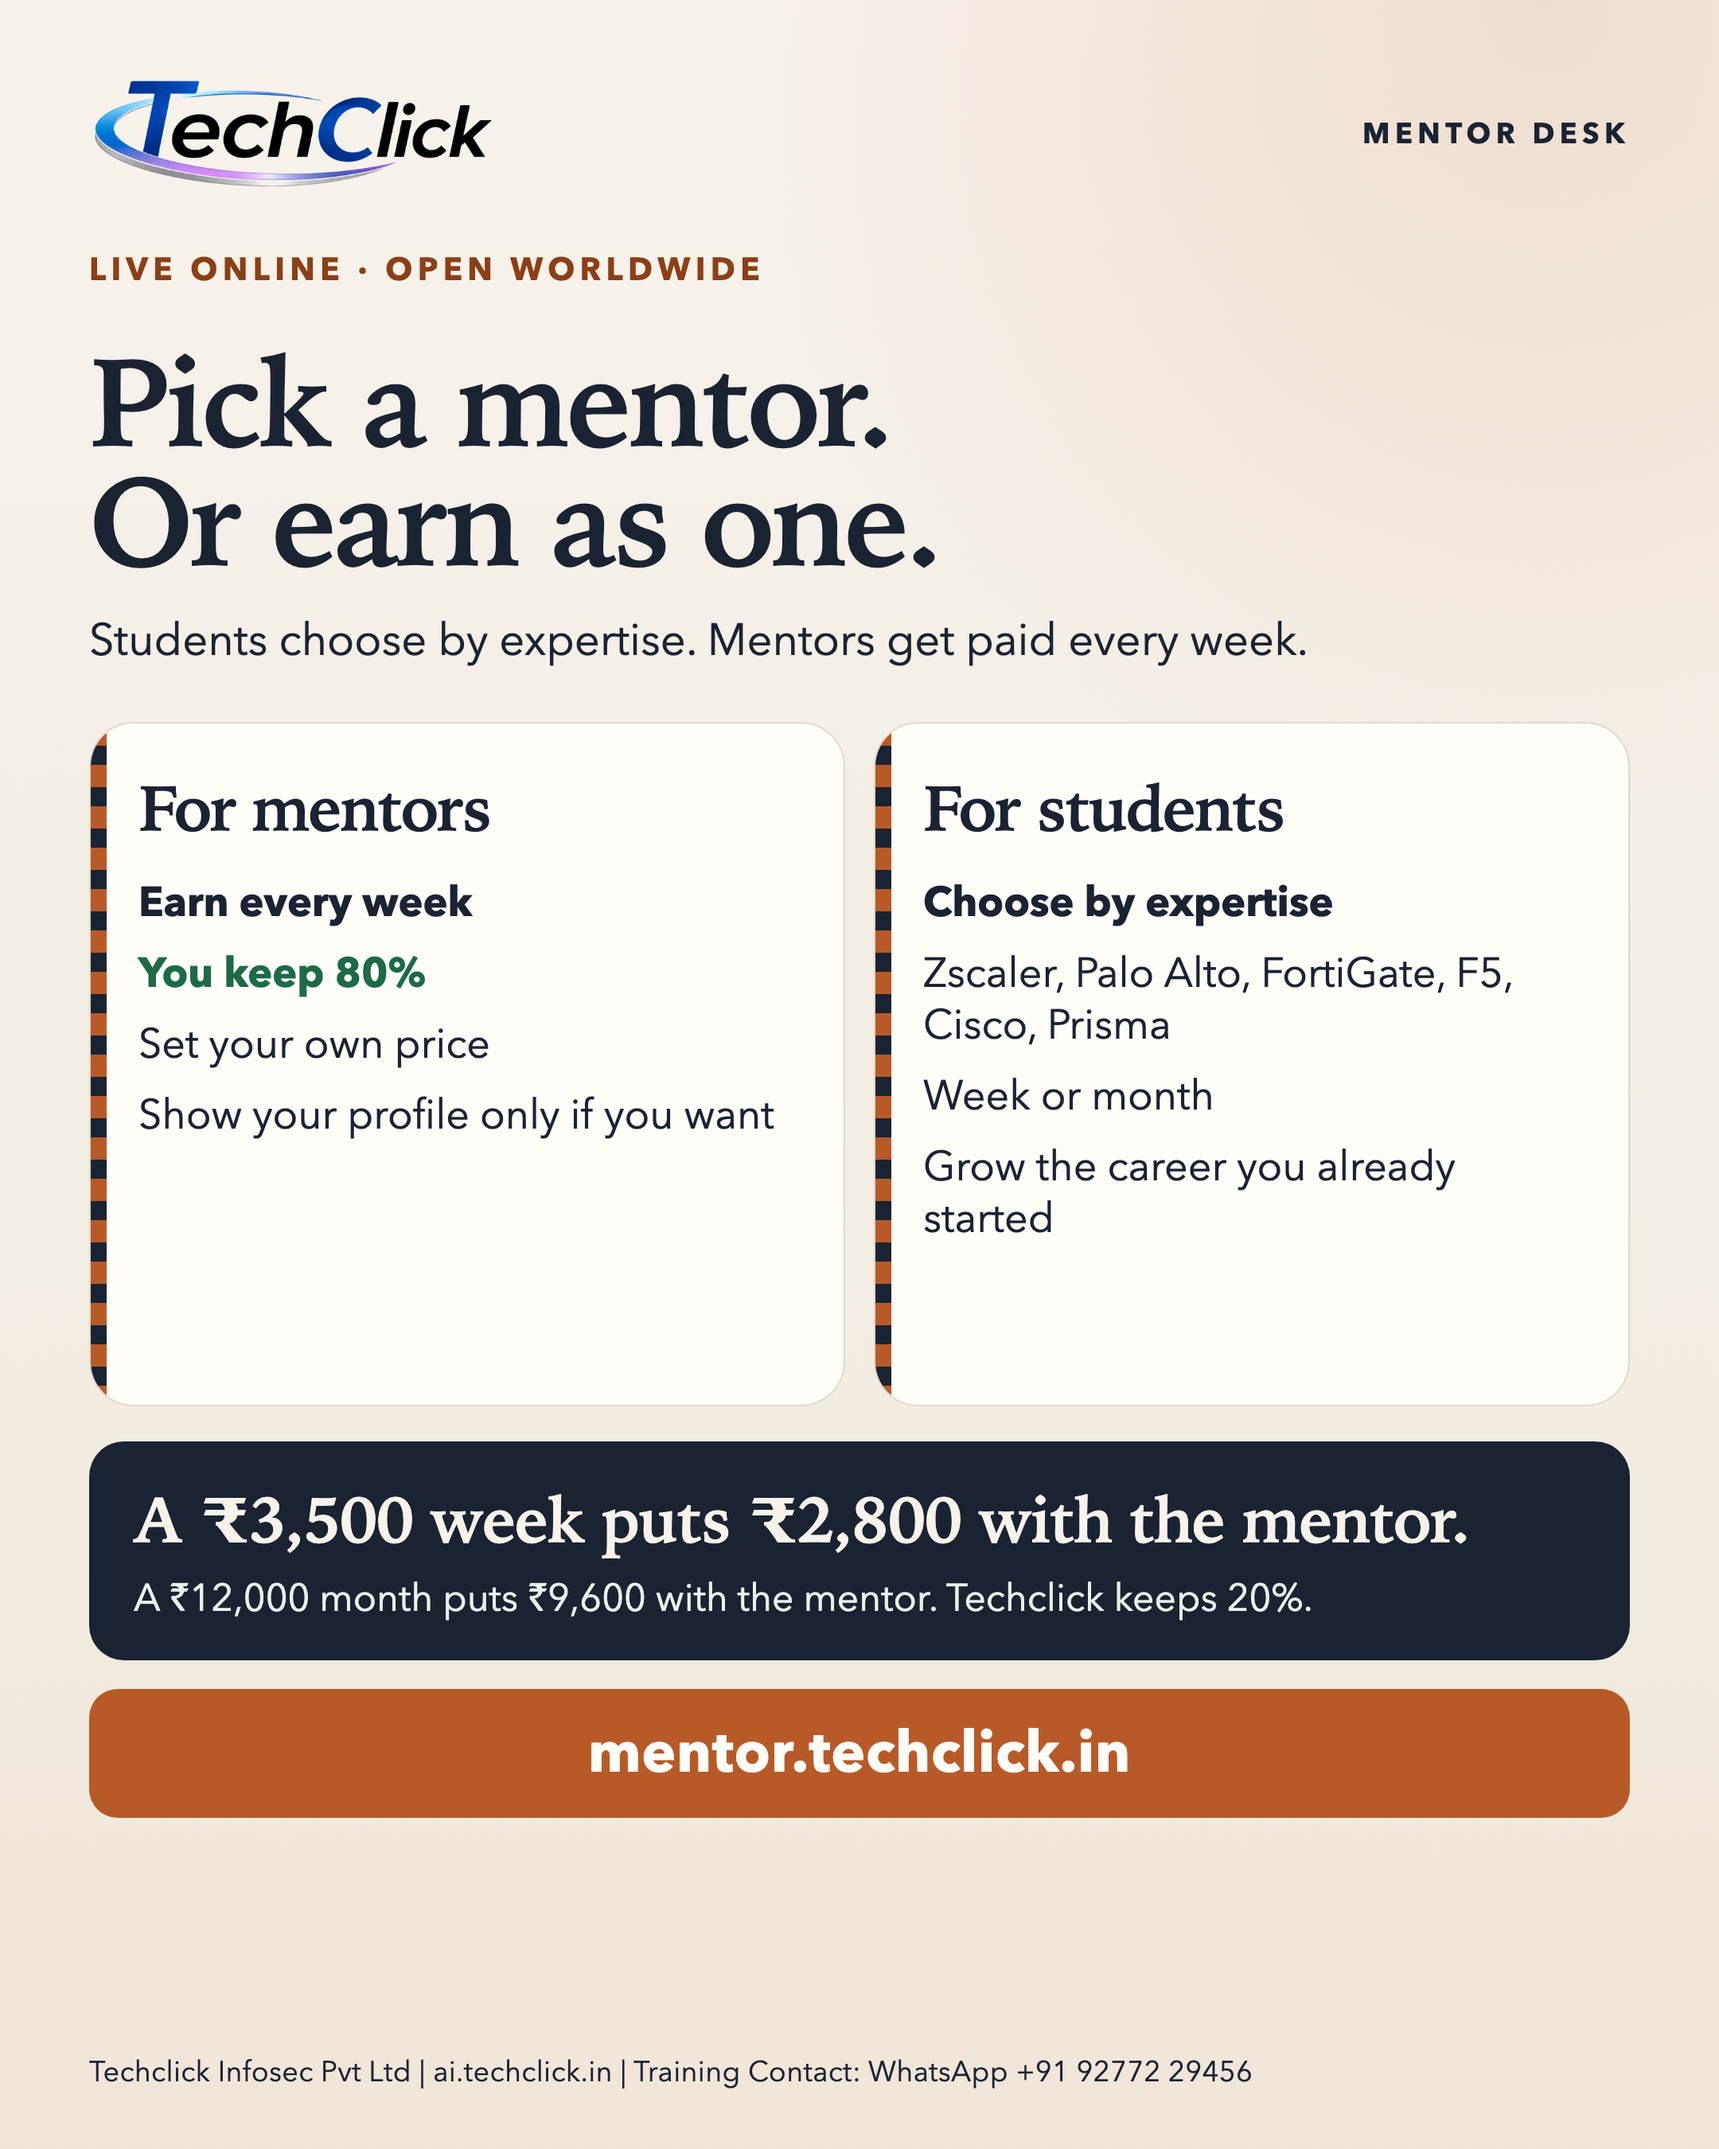
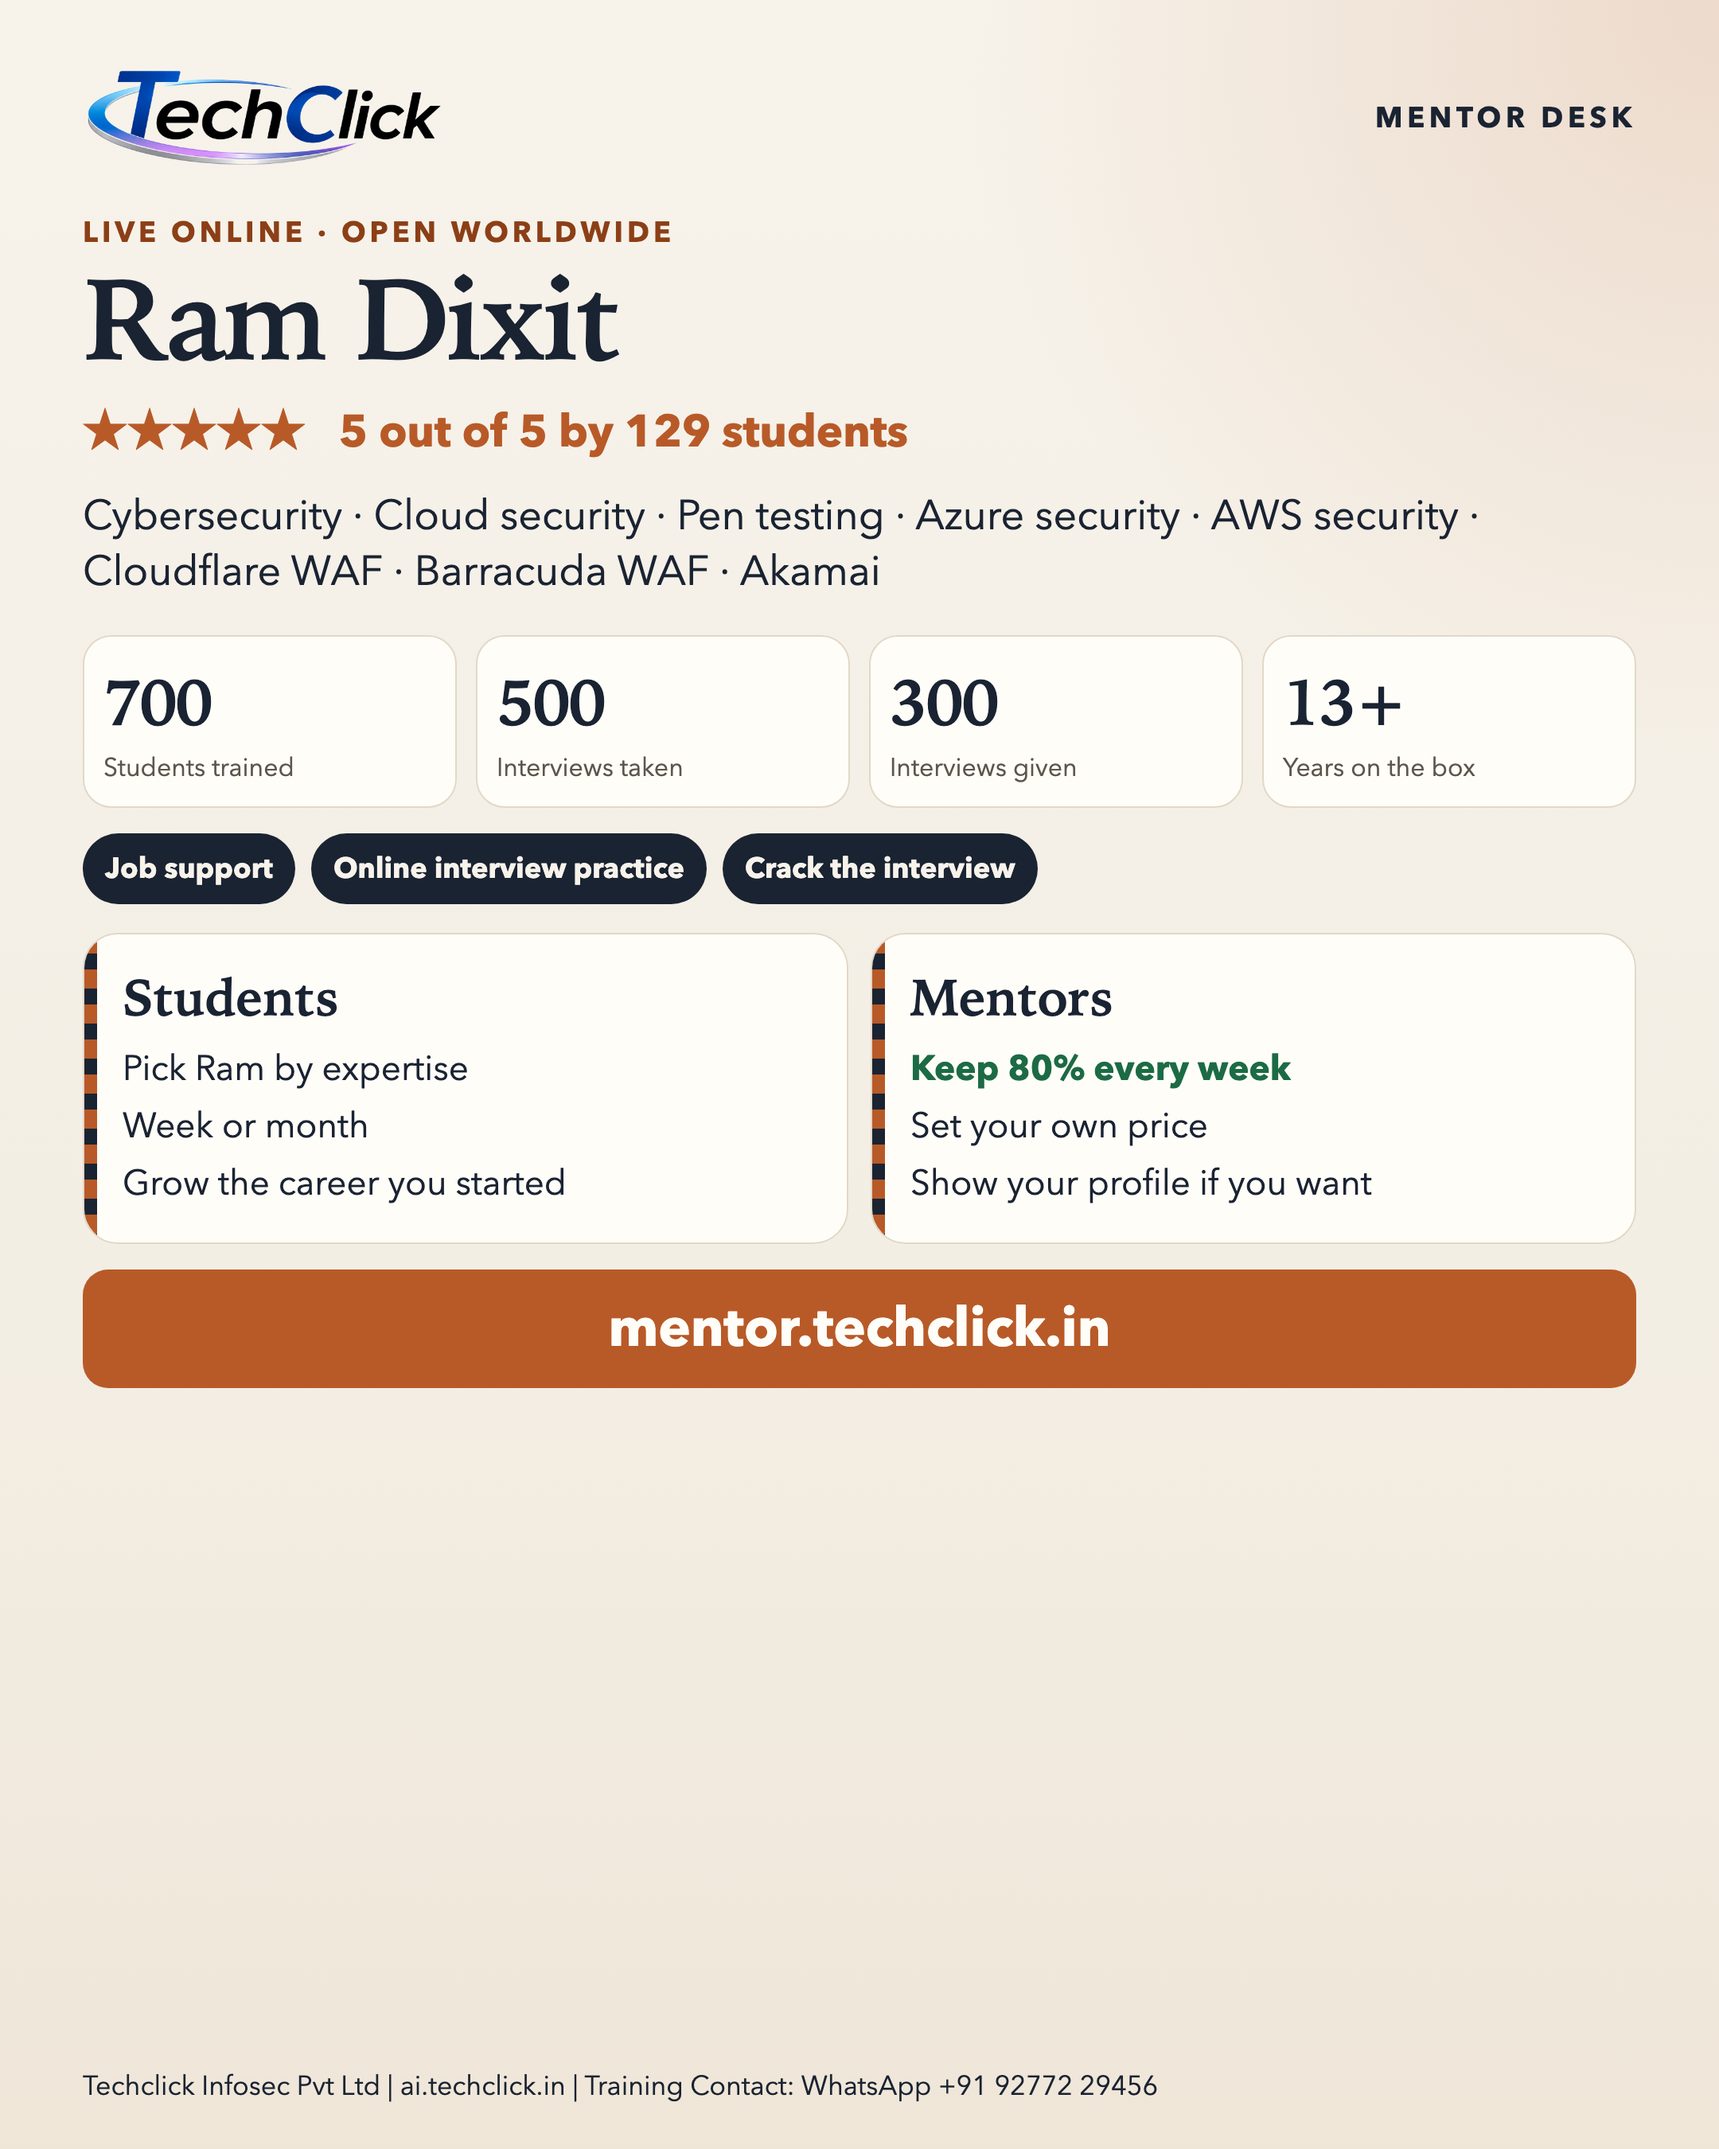
Show Ram Dixit strength, rating, and interview record.
The public card covers cybersecurity, cloud, pen testing, Azure, AWS, and WAF, plus job support and interview practice.

diff --git a/public/app.js b/public/app.js
@@ -44,7 +44,7 @@ function wa(text) {
 }
 
 function groupText() {
-  return `Techclick Mentor Desk is open.\n\nIf you work on Zscaler, Palo Alto, FortiGate, F5, Cisco ISE, or Prisma — pick a mentor for one week or one month.\n\nIf you can teach that work, apply as a mentor. You keep 80% of the seat. Techclick keeps 20%.\n\n${catalog.public_url || location.origin}`;
+  return `Techclick Mentor Desk is open worldwide.\n\nRam Dixit — cybersecurity, cloud security, pen testing, Azure, AWS, and WAF (Cloudflare, Barracuda, Akamai). 5 out of 5 by 129 students. 700 students trained. Job support and online interview practice.\n\nStudents pick a mentor. Mentors keep 80% and earn every week.\n\n${catalog.public_url || location.origin}`;
 }
 
 function go(href) {
@@ -120,8 +120,33 @@ function shell(current, nodes) {
   app.replaceChildren(...parts);
 }
 
-function chips(tracks) {
-  return el("div", { class: "chips" }, tracks.slice(0, 4).map((track) => el("span", { class: "chip" }, [track])));
+function chips(tracks, limit) {
+  const shown = typeof limit === "number" ? tracks.slice(0, limit) : tracks;
+  return el("div", { class: "chips" }, shown.map((track) => el("span", { class: "chip" }, [track])));
+}
+
+function stars(count) {
+  const n = Math.max(0, Math.min(5, Number(count) || 0));
+  return "★★★★★".slice(0, n) + "☆☆☆☆☆".slice(0, 5 - n);
+}
+
+function proof(mentor) {
+  if (!mentor.rating_count && !mentor.students_trained) return null;
+  return el("div", {}, [
+    mentor.rating_count ? el("p", { class: "stars" }, [`${stars(mentor.rating_out_of)}  ${mentor.rating_out_of} out of 5 by ${mentor.rating_count} students`]) : null,
+    el("div", { class: "stats" }, [
+      stat(mentor.students_trained, "Students trained"),
+      stat(mentor.interviews_taken, "Interviews taken"),
+      stat(mentor.interviews_given, "Interviews given"),
+      stat(mentor.rating_count, "Student ratings"),
+    ].filter(Boolean)),
+    (mentor.offers || []).length ? el("div", { class: "chips" }, mentor.offers.map((offer) => el("span", { class: "chip" }, [offer]))) : null,
+  ]);
+}
+
+function stat(value, label) {
+  if (!value) return null;
+  return el("div", { class: "stat" }, [el("b", {}, [String(value)]), el("span", {}, [label])]);
 }
 
 function mentorCard(mentor) {
@@ -131,7 +156,8 @@ function mentorCard(mentor) {
     el("h3", {}, [mentor.name]),
     el("p", {}, [mentor.headline]),
     el("p", { class: "meta" }, [`${mentor.years} years`, mentor.city, mentor.languages]),
-    chips(mentor.tracks || []),
+    proof(mentor),
+    chips(mentor.tracks || [], 8),
     el("div", { class: "price-pair" }, [
       el("div", {}, [el("b", {}, [inr(mentor.weekly_inr)]), el("span", { class: "small muted" }, ["week · mentor gets ", inr(mentor.weekly_share_inr)])]),
       el("div", {}, [el("b", {}, [inr(mentor.monthly_inr)]), el("span", { class: "small muted" }, ["month · mentor gets ", inr(mentor.monthly_share_inr)])]),
@@ -221,7 +247,8 @@ function ticket(mentor, plan) {
     box.replaceChildren(
       el("p", { class: "kicker" }, [active === "weekly" ? "Seat · weekly" : "Seat · monthly"]),
       el("h2", {}, [mentor.name]),
-      chips(mentor.tracks || []),
+      mentor.rating_count ? el("p", { class: "stars" }, [`${stars(mentor.rating_out_of)}  ${mentor.rating_out_of}/5 · ${mentor.rating_count} students · ${mentor.students_trained} trained`]) : null,
+      chips(mentor.tracks || [], 6),
       el("div", { class: "plan-switch" }, [
         el("button", { class: "text-btn", type: "button", "aria-pressed": active === "weekly" ? "true" : "false", onclick: () => draw("weekly") }, ["Weekly"]),
         el("button", { class: "text-btn", type: "button", "aria-pressed": active === "monthly" ? "true" : "false", onclick: () => draw("monthly") }, ["Monthly"]),
@@ -306,6 +333,7 @@ async function renderProfile() {
         el("h1", {}, [mentor.name]),
         el("p", { class: "lede" }, [mentor.headline]),
         el("p", { class: "meta" }, [`${mentor.years} years`, mentor.city, mentor.languages, mentor.seats_left === 0 ? "No open seat" : `${mentor.seats_left} open seats`]),
+        proof(mentor),
         chips(mentor.tracks || []),
         el("p", { style: "margin-top:14px" }, [mentor.bio]),
       ]),

diff --git a/public/styles.css b/public/styles.css
@@ -180,6 +180,16 @@ h1 { font-size: clamp(40px, 6vw, 68px); line-height: 0.96; margin: 10px 0 16px; 
 .meta { display: flex; flex-wrap: wrap; gap: 8px 14px; color: var(--muted); font-size: 14px; margin: 8px 0; }
 .price-pair { display: flex; gap: 18px; margin: 12px 0; }
 .price-pair b { display: block; font-family: var(--serif); font-size: 26px; }
+.stats { display: grid; grid-template-columns: repeat(4, 1fr); gap: 8px; margin: 12px 0; }
+.stat {
+  background: #fff;
+  border: 1px solid var(--line);
+  border-radius: 14px;
+  padding: 10px;
+}
+.stat b { display: block; font-family: var(--serif); font-size: 22px; letter-spacing: -0.03em; }
+.stat span { display: block; color: var(--muted); font-size: 12px; line-height: 1.3; }
+.stars { color: #b85a28; letter-spacing: 0.08em; font-size: 14px; font-weight: 700; }
 .badge {
   display: inline-flex;
   align-items: center;
@@ -255,7 +265,7 @@ label.choice input { width: auto; min-height: 22px; }
 .dock .btn { width: 100%; box-shadow: var(--shadow); }
 
 @media (max-width: 860px) {
-  .hero, .money, .grid, .profile, .form-row { grid-template-columns: 1fr; }
+  .hero, .money, .grid, .profile, .form-row, .stats { grid-template-columns: 1fr 1fr; }
   .links a:not(.btn):not(.keep) { display: none; }
   .links a.keep { display: inline-flex; padding: 0 10px; }
   .nav { padding: 10px 12px; }

diff --git a/src/index.js b/src/index.js
@@ -78,11 +78,18 @@ function referenceOf(id) {
 
 function publicMentor(row) {
   let tracks = [];
+  let offers = [];
   try {
     const parsed = JSON.parse(row.tracks);
     if (Array.isArray(parsed)) tracks = parsed;
   } catch {
     tracks = [];
+  }
+  try {
+    const parsedOffers = JSON.parse(row.offers || "[]");
+    if (Array.isArray(parsedOffers)) offers = parsedOffers;
+  } catch {
+    offers = [];
   }
   return {
     slug: row.slug,
@@ -102,6 +109,12 @@ function publicMentor(row) {
     seats: row.seats,
     verified: row.verified === 1,
     founding: row.is_founding === 1,
+    offers,
+    rating_out_of: Number(row.rating_out_of || 0),
+    rating_count: Number(row.rating_count || 0),
+    students_trained: Number(row.students_trained || 0),
+    interviews_taken: Number(row.interviews_taken || 0),
+    interviews_given: Number(row.interviews_given || 0),
   };
 }
 

diff --git a/public/index.html b/public/index.html
@@ -22,7 +22,7 @@
   <link rel="preconnect" href="https://fonts.googleapis.com">
   <link rel="preconnect" href="https://fonts.gstatic.com" crossorigin>
   <link href="https://fonts.googleapis.com/css2?family=Fraunces:opsz,wght@9..144,560;9..144,640&family=Outfit:wght@380;500;640&display=swap" rel="stylesheet">
-  <link rel="stylesheet" href="/styles.css?v=20260923c">
+  <link rel="stylesheet" href="/styles.css?v=20260923e">
 </head>
 <body>
   <a class="skip" href="#main">Skip to content</a>
@@ -33,6 +33,6 @@
       <p>Turn on JavaScript to pick a mentor or apply to teach. Or message Techclick on WhatsApp at +91 92772 29456.</p>
     </main>
   </noscript>
-  <script src="/app.js?v=20260923d" type="module"></script>
+  <script src="/app.js?v=20260923e" type="module"></script>
 </body>
 </html>

diff --git a/src/validate.js b/src/validate.js
@@ -11,6 +11,14 @@ export const TRACKS = [
   "Cisco FMC",
   "Check Point",
   "Cloudflare",
+  "Cloudflare WAF",
+  "Barracuda WAF",
+  "Akamai",
+  "Cybersecurity",
+  "Cloud security",
+  "Penetration testing",
+  "Azure security",
+  "AWS security",
   "SOC / SIEM",
   "Network troubleshooting",
 ];
